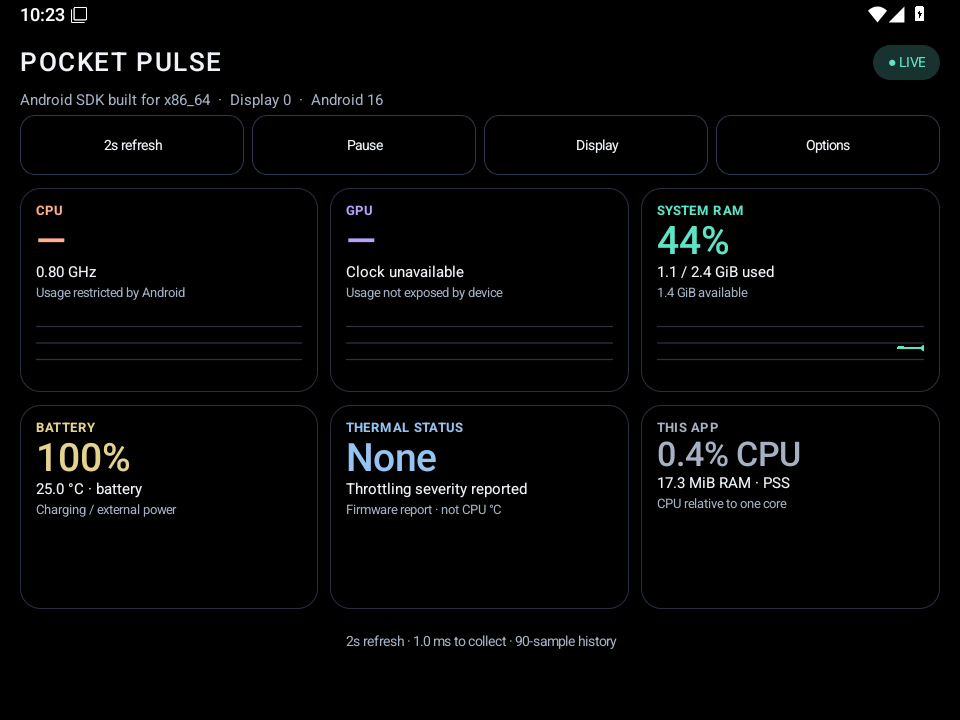
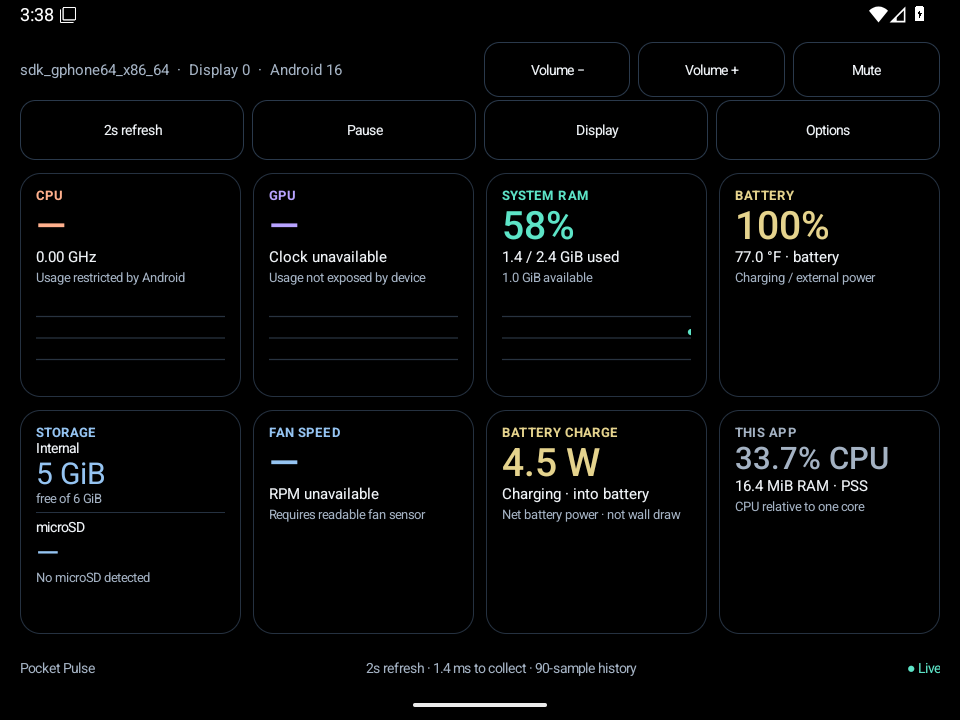
Document verified Android behavior and refresh release screenshots

diff --git a/VALIDATION.md b/VALIDATION.md
@@ -1,30 +1,51 @@
-# Validation — Pocket Pulse 0.1.0
+# Validation — Pocket Pulse 0.2.0
 
-Performed November 5, 2026. This is an installable development prototype, with physical-device compatibility still to be confirmed.
+Performed November 5, 2026 (America/Chicago). Physical handheld compatibility remains to be confirmed.
 
-## Passed
+## Build and package checks
 
-- Compiled all Android sources against SDK 36 using JDK 17 and Android Build-Tools 36.0.0; converted to DEX with minimum API 26.
-- APK signature verification: v2 and v3 valid. ZIP alignment verified. Package `dev.pocketpulse.monitor`, version 0.1.0, minimum API 26, target API 36. No requested Android permissions and no bundled native libraries.
-- 33 standalone regression checks: CPU totals exclude guest double counting; CPU counter deltas/resets; invalid/unavailable GPU counters; valid zero versus unavailable values; RAM calculation; process CPU relative to one core; bounded ring history and reset.
-- Installed and cold-launched successfully in an Android 16 / API 36 x86_64 emulator. No Pocket Pulse entries in the Android crash log during smoke testing.
-- Inspected actual screenshots at 960 × 720 / density 200 (4:3) and 1240 × 1080 / density 320 (Thor-shaped landscape lower screen). All six cards and controls fit at those test densities. Checked pure-black canvas/cards and readable outlines/text.
-- Automated UI checks: all six card titles; pause/resume; changing refresh from 2 to 5 seconds; saved refresh after a process restart; restoring default 2 seconds; one-display explanation; awake/dim/compact options.
-- Android graphics statistics recorded zero app frames during a five-second manual pause, and zero app frames during a five-second period hidden behind the launcher. This confirms idle drawing behavior, not a proof of zero process CPU use.
-- Unsupported CPU/GPU usage showed unavailable values rather than invented readings; CPU frequency, RAM, battery, thermal status, and the app's own CPU/PSS were displayed.
+- All native Android Java sources compiled against SDK 36, minimum API 26, target API 36. JDK 17 and Build-Tools 36.0.0; DEX generation succeeded.
+- Published Windows-built APK: `Pocket-Pulse-0.2.0.apk`, package `dev.pocketpulse.monitor`, version code 2. ZIP alignment and v2/v3 APK signatures verified. No bundled native libraries or runtime dependencies.
+- Requested permissions are `INTERNET` (manual update checks) and `MODIFY_AUDIO_SETTINGS` (media volume). Cleartext traffic is disabled; no broad storage or install-packages permission.
+- **52 telemetry/math checks:** counter parsing/deltas/resets, real zero versus unavailable, GPU/RAM/process calculations, ring storage, Celsius-to-Fahrenheit conversion, charging/discharging power units and unsupported properties, and RPM parsing.
+- **25 semantic-version checks:** numeric ordering, optional `v`, prerelease ordering, build metadata and malformed/overflowing versions.
+- **20 release-selection checks on Android's actual JSON implementation:** skip drafts, same/older/unparseable versions and unfinished/missing/wrong APKs; accept newer test releases; order versions correctly; limit notes; reject non-HTTPS, wrong-host, credential-spoofed and wrong-repository download URLs.
 
-## Limits and remaining checks
+## Android runtime and layout checks
 
-- No physical Retroid, AYN Thor, or Retroid dual-screen attachment was available. Device counter permissions, controller navigation, OEM display switching, actual display densities, and real gaming overhead remain unverified.
-- The emulator's native multidisplay console reported `setMultiDisplay not supported`; the one-display fallback was tested. Moving through the app's picker and keeping a game active on another physical display still require handheld testing.
-- Android 8–15 compatibility is based on compilation/API guards, not separate runtime tests on every supported version.
-- No game FPS, battery-life comparison, or on-device benchmark was performed. APK download size is not runtime RAM or CPU cost. Emulator overhead readings are illustrative, not handheld guarantees.
-- The APK uses a locally generated development signing key. Keep the original private key for compatible development updates; do not upload it to a public repository.
+[Successful GitHub verification run](https://github.com/TygerBDevTeam/pocket-pulse/actions/runs/42157272523) built the same app sources on Ubuntu and ran an accelerated Android 16 / API 36 x86_64 emulator. CI generates its own temporary test key; the public release APK is independently built/signed on Windows with the preserved private release key. No private release material is sent to CI.
 
-## Deliverable
+- Installed and cold-launched successfully; eight-card dashboard and three volume controls found.
+- Inspected actual captures at **960 × 720, density 200 (4:3)** and **1240 × 1080, density 320 (Thor-shaped lower-screen window)**. Both landscape layouts fit all eight cards, with this app's usage at bottom right. Shorter layouts use compact cards and can hide charts.
+- Captured a 480 × 360 compact window, 720 × 960 portrait window and 1.3× font scale. The app provides a scrollable grid for constrained windows; physical touch/controller behavior still requires handheld testing.
+- Verified pause/resume; zero app frames drawn during a five-second manual pause and during a five-second period hidden behind the launcher. This checks redraw behavior, not zero CPU cost.
+- Changed refresh 2 → 5 seconds; verified persistence through process restart; restored 2 seconds.
+- Verified single-display fallback and Options controls. Switched Storage → Thermal status, confirmed persistence after process restart, and restored Storage.
+- Verified Fahrenheit-only displayed readings and settings; emulator battery at 77.0 °F.
+- Verified Mute changes to Unmute and back using Android's media stream.
+- Performed a real HTTPS GitHub release check in the running app. It correctly reported no newer published APK for installed 0.2.0 while only 0.1.0 was published.
+- Unsupported CPU/GPU utilization and fan RPM stayed unavailable. Internal capacity and absence of microSD displayed independently. Emulator battery current/voltage produced a labeled net charging-power reading.
+- No Pocket Pulse entries in the Android crash log throughout the checks.
 
-`dist/Pocket-Pulse-0.1.0.apk`: 29,154 bytes.
+## Signing migration and private backup
 
[1 lines of base64/hex data omitted]
+The 0.1.0 release APK's certificate SHA-256 is:
 
-Rebuild with `build.ps1`; the script reruns signature/alignment verification and the telemetry regression checks, and writes a fresh `dist/SHA256SUMS.txt`.
[1 lines of base64/hex data omitted]
+
+The 0.2.0 release APK's certificate SHA-256 is:
+
[1 lines of base64/hex data omitted]
+
+Both certificates and package metadata were inspected. The old private key was unavailable, so 0.1.0 must be uninstalled once. A new randomly password-protected key and its password file are retained privately, with a separately verified local backup. Neither key nor password is tracked by Git or included in release assets. Repeated local builds reused the same new certificate.
+
+## Remaining hardware checks
+
+- No physical Retroid Pocket Nova/dual-screen attachment, AYN Thor or Anbernic DDS was connected. OEM sensor permissions, fan endpoints, removable-card readings, secondary-display switching and gaming overhead are not verified on those devices.
+- The emulator has one accessible display. Moving the app to an actual second display and keeping it visible alongside a game require hardware testing.
+- Real microSD insertion/removal, adopted storage and ambiguous USB/removable-volume labeling require hardware testing. Storage refreshes every 15 seconds.
+- Native Android 8–15 compatibility is based on compilation/API guards, not separate runtime tests for each OS.
+- No per-game FPS, per-game CPU/GPU/RAM, battery-life comparison, or gameplay-impact measurement was performed. Emulator process CPU values include cold starts and automated test interactions and are not handheld overhead claims.
+- The local Windows software emulator did not boot reliably; runtime checks therefore used the hosted accelerated emulator.
+
+The release includes a SHA-256 checksum file for the exact APK and source ZIP. Rebuild using `build.ps1` with the same private signing pair to produce compatible future updates.
